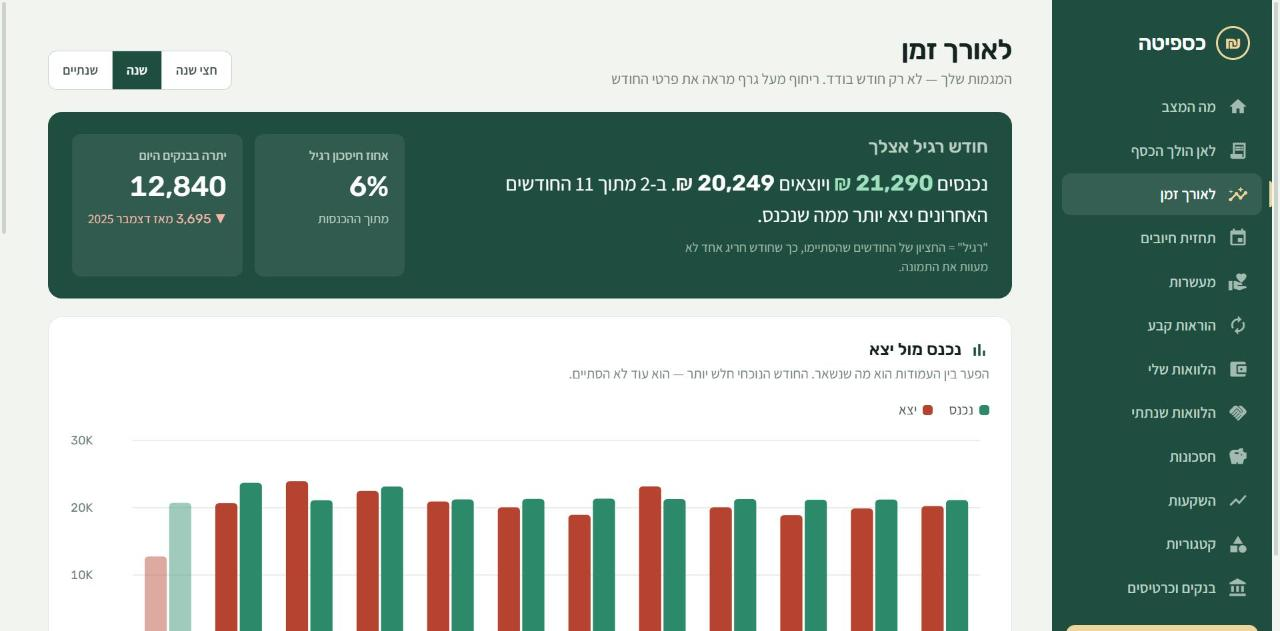
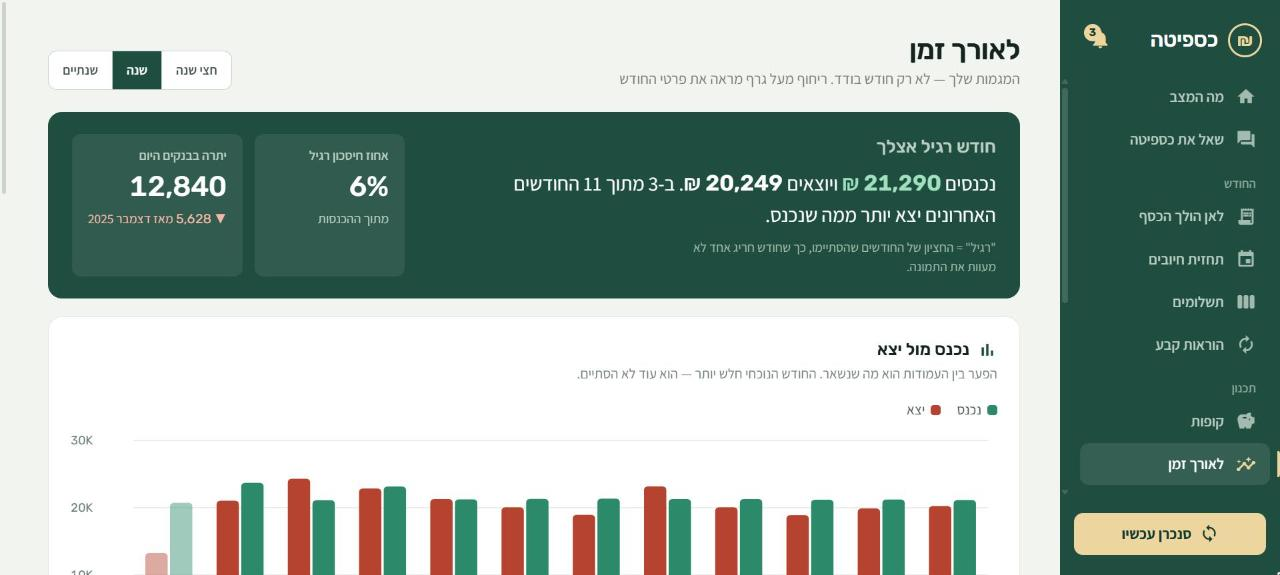
צילומי מסך מעודכנים ב-README ונתוני דמה לפיצ'רים החדשים
- 9 צילומי מסך ממצב ההדגמה, כולל תשלומים, קופות, העוזר וסעיף 46
- נתוני הדמה כוללים תקציבים, קופות, עסקה נוספת בתשלומים ושינויי מחיר להתראות
- סכומים שלמים בהתראות בלי אגורות

diff --git a/src/demo/seed.ts b/src/demo/seed.ts
@@ -7,7 +7,8 @@ import { sequelize } from '../utils/db';
 import { encrypt } from '../utils/crypto';
 import { addDays, addMonths, currentMonth, dateInMonth, monthsBetween, today } from '../utils/dates';
 import { descriptionKey, round2 } from '../utils/text';
-import { BankConfig, Account, TransactionRecord, MaaserRule, Category, Loan, LoanPayment, SavingsAccount, SavingsEntry, Holding } from '../models';
+import { BankConfig, Account, TransactionRecord, MaaserRule, Category, Loan, LoanPayment, SavingsAccount, SavingsEntry, Holding, Fund } from '../models';
+import { taxService } from '../services/tax.service';
 import { settingsService } from '../services/settings.service';
 import { accountsService } from '../services/accounts.service';
 import { recurringService } from '../services/recurring.service';
@@ -191,11 +192,13 @@ export async function seedDemo(force: boolean): Promise<void> {
       }
     }
     // מנויים חודשיים
-    cardTxn(maxCard, maxCfg, 10, dateInMonth(m, 4), -99.9, 'פרטנר תקשורת', { category: 'שירותי תקשורת' });
+    // שינויי מחיר בחודש האחרון — מופיעים בהתראות (הוזלה והתייקרות)
+    const lastMonth = m === currentMonth();
+    cardTxn(maxCard, maxCfg, 10, dateInMonth(m, 4), lastMonth ? -79.9 : -99.9, 'פרטנר תקשורת', { category: 'שירותי תקשורת' });
     cardTxn(maxCard, maxCfg, 10, dateInMonth(m, 6), -189, 'הוט טלקום', { category: 'שירותי תקשורת' });
     cardTxn(israCard, israCfg, 2, dateInMonth(m, 9), -229, 'מכבי שירותי בריאות', { category: 'רפואה ובתי מרקחת' });
     cardTxn(israCard, israCfg, 2, dateInMonth(m, 11), -360, 'קופת העיר ירושלים', { category: 'שונות', memo: 'תרומה חודשית' });
-    cardTxn(maxCard, maxCfg, 10, dateInMonth(m, 14), -149, 'הולמס פלייס', { category: 'פנאי, בידור וספורט' });
+    cardTxn(maxCard, maxCfg, 10, dateInMonth(m, 3), lastMonth ? -169 : -149, 'הולמס פלייס', { category: 'פנאי, בידור וספורט' });
     cardTxn(maxCard, maxCfg, 10, dateInMonth(m, 17), -1890, 'ש.ל.מ ליסינג ציי רכב', { category: 'תחבורה ורכבים' });
   }
   // רכישה בתשלומים + רכישה בחו"ל
@@ -203,6 +206,11 @@ export async function seedDemo(force: boolean): Promise<void> {
   for (let n = 1; n <= 6; n++) {
     const d = dateInMonth(addMonths(ikea.slice(0, 7), n - 1), 6);
     cardTxn(maxCard, maxCfg, 10, d, -483.17, 'איקאה נתניה', { category: 'ריהוט ובית', installment: [n, 6] });
+  }
+  const laptop = dateInMonth(addMonths(currentMonth(), -4), 15);
+  for (let n = 1; n <= 12; n++) {
+    const d = dateInMonth(addMonths(laptop.slice(0, 7), n - 1), 15);
+    cardTxn(israCard, israCfg, 2, d, -358.25, 'KSP מחשבים', { category: 'מחשבים', installment: [n, 12], originalAmount: -4299 });
   }
   for (const days of [12, 55, 130, 240]) {
     const usd = between(25, 120);
@@ -288,6 +296,22 @@ export async function seedDemo(force: boolean): Promise<void> {
     const id = cats.get(cat);
     if (id) await categoriesService.setMerchant(merchant, id);
   }
+
+  // תקציבים לכמה קטגוריות
+  const budgets: [string, number][] = [['מזון וסופר', 3200], ['מסעדות ובתי קפה', 450], ['דלק', 650], ['פנאי ונופש', 400]];
+  for (const [name, budget] of budgets) {
+    const id = cats.get(name);
+    if (id) await Category.update({ monthlyBudget: budget }, { where: { id } });
+  }
+
+  // קופות ייעודיות
+  const year = Number(currentMonth().slice(0, 4));
+  await Fund.create({ name: 'פסח', icon: 'celebration', monthlyAmount: 600, targetAmount: 6000, targetDate: `${year + 1}-04-01`, startMonth: addMonths(currentMonth(), -3), categoryId: null, openingBalance: 1200 });
+  await Fund.create({ name: 'ביטוח רכב', icon: 'directions_car', monthlyAmount: 350, targetAmount: 4200, targetDate: `${year + 1}-02-15`, startMonth: addMonths(currentMonth(), -8), categoryId: null, openingBalance: 0 });
+  await Fund.create({ name: 'חופשה בקיץ', icon: 'beach_access', monthlyAmount: 400, targetAmount: null, targetDate: null, startMonth: addMonths(currentMonth(), -6), categoryId: cats.get('פנאי ונופש') ?? null, openingBalance: 0 });
+
+  // מוסד עם אישור סעיף 46
+  await taxService.setPayee('ועד הרבנים לישראל', true);
 
   console.log(`[DEMO] נוצרו ${all.length} עסקאות`);
 }

diff --git a/src/services/alerts.service.ts b/src/services/alerts.service.ts
@@ -32,7 +32,9 @@ const CHANGE_MIN = 2;
 const FRESH_DAYS = 45;
 
 function fmt(n: number): string {
-  return Math.abs(n).toLocaleString('he-IL', { minimumFractionDigits: Math.abs(n) < 100 ? 2 : 0, maximumFractionDigits: 2 });
+  const v = Math.abs(n);
+  const whole = Math.abs(v - Math.round(v)) < 0.005;
+  return v.toLocaleString('he-IL', { minimumFractionDigits: whole ? 0 : 2, maximumFractionDigits: whole ? 0 : 2 });
 }
 
 function priceAlert(groupKey: string, name: string, prev: number, last: number, date: string, link: string, monthly: boolean): AlertDto {

diff --git a/README.md b/README.md
@@ -15,14 +15,22 @@
 | ![לאן הולך הכסף](docs/screenshots/transactions.jpg) | ![לאורך זמן](docs/screenshots/dashboard.jpg) |
 | **מעשרות** | **השקעות** |
 | ![מעשרות](docs/screenshots/maaser.jpg) | ![השקעות](docs/screenshots/investments.jpg) |
+| **תשלומים** | **קופות** |
+| ![תשלומים](docs/screenshots/installments.jpg) | ![קופות](docs/screenshots/funds.jpg) |
+| **שאל את כספיטה** | **החזר מס על תרומות** |
+| ![שאל את כספיטה](docs/screenshots/assistant.jpg) | ![סעיף 46](docs/screenshots/section46.jpg) |
 
 ## מה יש בפנים
 
 - **מה המצב** — יתרות, השווי הנקי, הנקודה הנמוכה הצפויה החודש, ורשימת דברים שדורשים תשומת לב
-- **תנועות** — לפי חודש, מקובצות לפי ספק וקטגוריה
+- **שאל את כספיטה** — שאלות בשפה חופשית על הכסף שלכם ("כמה הוצאתי על ספרים השנה?"), דרך Claude Code או Codex שמותקנים במחשב — בלי מפתח API ובלי עלות נוספת
+- **התראות** — חיוב קבוע שהתייקר או התוזל (גם תשלום משכנתא אחרי שינוי ריבית), חריגה מתקציב, תשלומים שהסתיימו
+- **תנועות** — לפי חודש, מקובצות לפי ספק וקטגוריה, עם תקציב לכל קטגוריה ופיצול של קנייה אחת לכמה קטגוריות
+- **תשלומים** — כמה נשאר לשלם על קניות בתשלומים וכמה כבר תפוס בחודשים הבאים (ואפשר לסמן עסקה בתשלומים כהלוואה)
+- **קופות** — מפרישים כל חודש להוצאות גדולות צפויות (פסח, ביטוח רכב, חופשה) ורואים אם עומדים בקצב
 - **לאורך זמן** — הכנסות, הוצאות ויתרה חודש אחרי חודש
 - **תחזית חיובים** — חיובי האשראי והוראות הקבע הקרובים, ואזהרה לפני מינוס
-- **מעשרות** — חישוב אוטומטי של המעשר מההכנסות, מעקב אחרי מה ששולם ומה שנשאר
+- **מעשרות** — חישוב אוטומטי של המעשר מההכנסות, מעקב אחרי מה ששולם ומה שנשאר, וחישוב החזר המס על תרומות למוסדות עם אישור סעיף 46
 - **הוראות קבע** — מזוהות אוטומטית מההיסטוריה
 - **הלוואות** — הלוואות שנתתם ושלקחתם, עם שיוך ההחזרים מהבנק
 - **חסכונות** — פיקדונות גמ"ח, קרנות השתלמות ועוד
@@ -65,6 +73,7 @@ npm run demo
 - הכול נשמר במחשב שלכם בלבד (קובץ SQLite), שום דבר לא נשלח לשרת חיצוני
 - פרטי ההתחברות לבנקים מוצפנים (AES-256-GCM) ולא נשלחים לממשק
 - השרת מאזין כברירת מחדל רק למחשב המקומי
+- "שאל את כספיטה" מקבל רק עותק לקריאה של הנתונים (בלי פרטי התחברות) ולא יכול לשנות כלום
 
 ## טכנולוגיה
 
